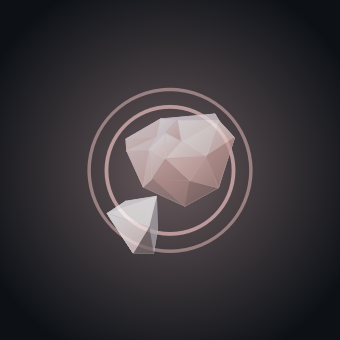
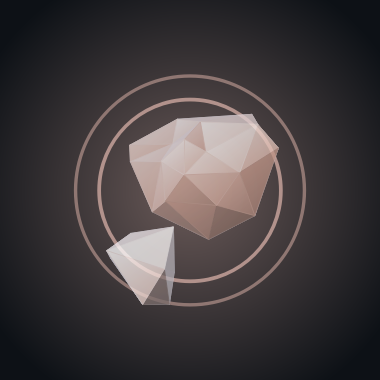
docs: generate the state stills instead of hand-capturing them
Seven stills were captured by hand with no generator, so an 8th state meant
repeating the chore and the set drifted in framing. This renders all eight
offscreen from one seed, mirroring render_readme_loops.py, sampling transients
mid-flare and holding states once settled.

All eight are regenerated, so the README's state row changes visibly even where
the state itself did not.

diff --git a/scripts/render_state_stills.py b/scripts/render_state_stills.py
@@ -1,0 +1,74 @@
+#!/usr/bin/env python
+"""Render the README's per-state stills — one PNG per AvatarState.
+
+The seven originals were hand-captured, which made an 8th state a manual chore
+and left the set inconsistent. This renders all of them offscreen from one seed
+at one moment per state, mirroring scripts/render_readme_loops.py.
+
+Each state is sampled at the moment it reads most clearly: transients early,
+while the flare is still up; holding states once settled.
+
+Needs the Qt extra:  pip install -e ".[qt]"
+Run from the repo root:  python scripts/render_state_stills.py
+"""
+
+from __future__ import annotations
+
+import os
+import sys
+
+os.environ.setdefault("QT_QPA_PLATFORM", "offscreen")
+
+from PySide6.QtWidgets import QApplication
+
+sys.path.insert(0, os.path.join(os.path.dirname(__file__), "..", "src"))
+from ai_identicon.genome import Genome              # noqa: E402
+from ai_identicon.model import AvatarState          # noqa: E402
+from ai_identicon.widget import PresenceWidget      # noqa: E402
+
+SEED = "bmev5p5akc"
+SIZE = 380
+ZOOM = 1.22
+DT = 1 / 60
+
+# seconds after entering the state — transients are caught mid-flare, holding
+# states after they settle
+SAMPLE_AT = {
+    AvatarState.IDLE: 2.0,
+    AvatarState.LISTENING: 2.0,
+    AvatarState.THINKING: 2.5,
+    AvatarState.SPEAKING: 2.0,
+    AvatarState.STREAMING: 1.2,
+    AvatarState.NOTIFY: 0.30,
+    AvatarState.SUCCESS: 0.28,
+    AvatarState.ERROR: 0.10,
+}
+
+
+def render(state: AvatarState, path: str) -> int:
+    w = PresenceWidget(Genome.from_seed(SEED))
+    w._timer.stop()
+    w.setFixedSize(SIZE, SIZE)
+    w.zoom = ZOOM
+    w.model.next_blink = 1e9      # never blink in a still
+    w.set_state(state)
+    t = 0.0
+    while t < SAMPLE_AT[state]:
+        w.model.advance(DT)
+        t += DT
+    w.grab().save(path, "PNG")
+    return os.path.getsize(path)
+
+
+def main() -> int:
+    QApplication(sys.argv[:1])
+    out = os.path.join(os.path.dirname(__file__), "..", "docs", "states")
+    os.makedirs(out, exist_ok=True)
+    for state in AvatarState:
+        path = os.path.join(out, f"{state.value}.png")
+        print(f"  {state.value:10} {render(state, path) // 1024:>4} KB")
+    return 0
+
+
+if __name__ == "__main__":
+    raise SystemExit(main())
